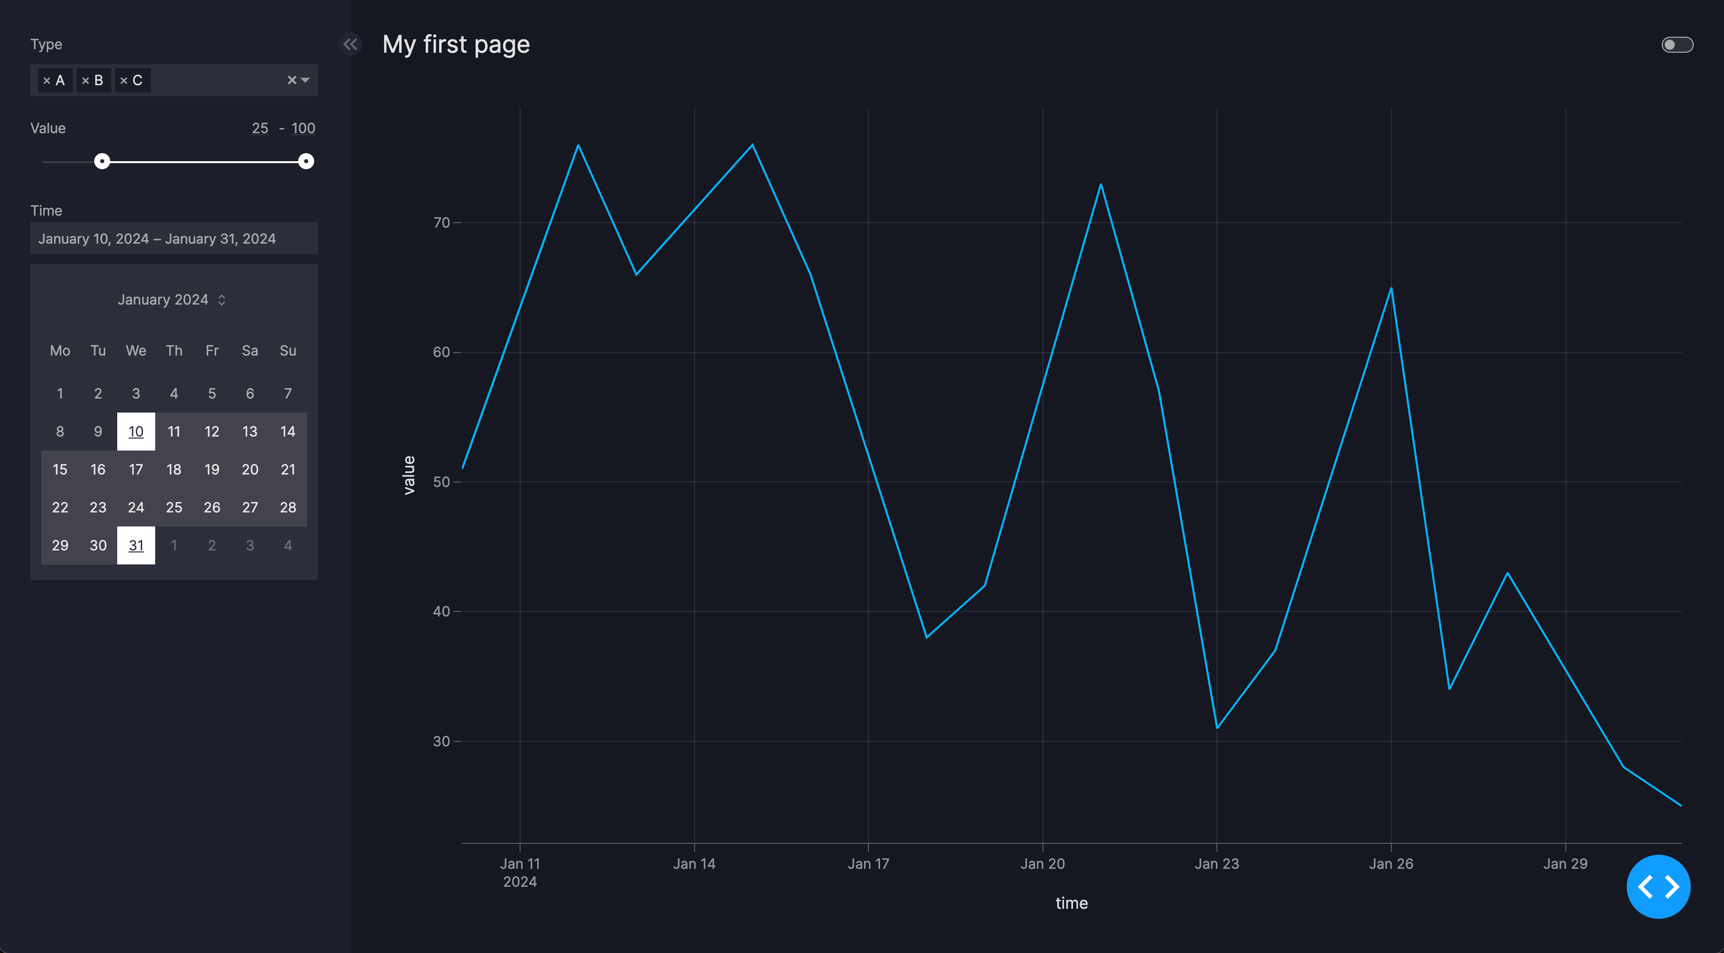
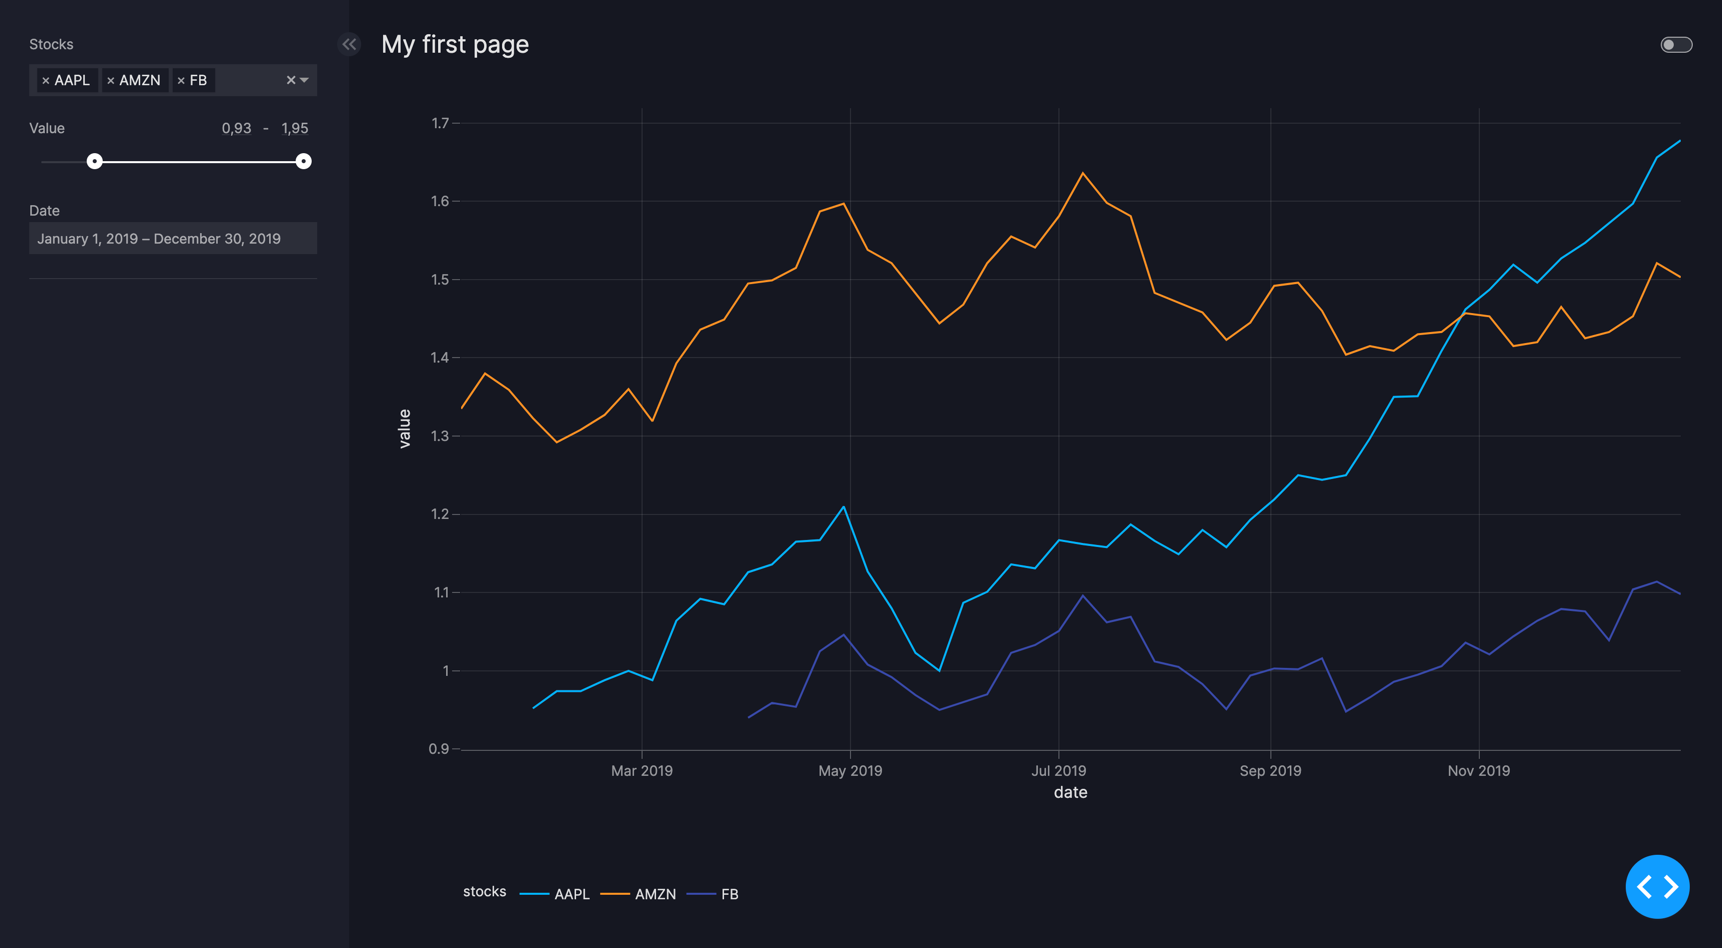
Minor changes

diff --git a/vizro-core/src/vizro/models/_controls/filter.py b/vizro-core/src/vizro/models/_controls/filter.py
@@ -147,8 +147,12 @@ class Filter(VizroBaseModel):
                 min_values.append(data_frame[self.column].min())
                 max_values.append(data_frame[self.column].max())
 
-            if not (is_numeric_dtype(pd.Series(min_values)) and is_numeric_dtype(pd.Series(max_values)) or
-                    is_datetime64_any_dtype(pd.Series(min_values)) and is_datetime64_any_dtype(pd.Series(max_values))):
+            if not (
+                is_numeric_dtype(pd.Series(min_values))
+                and is_numeric_dtype(pd.Series(max_values))
+                or is_datetime64_any_dtype(pd.Series(min_values))
+                and is_datetime64_any_dtype(pd.Series(max_values))
+            ):
                 raise ValueError(
                     f"Inconsistent types detected in the shared data column '{self.column}' for targeted charts "
                     f"{self.targets}. Please ensure that the data column contains the same data type across all "

diff --git a/vizro-core/examples/_dev/yaml_version/app.py b/vizro-core/examples/_dev/yaml_version/app.py
@@ -15,14 +15,15 @@ data_manager["iris"] = px.data.iris
 data_manager["gapminder"] = px.data.gapminder
 data_manager["gapminder_2007"] = px.data.gapminder().query("year == 2007")
 
-date_data_frame = pd.DataFrame(
-    {
-        "type": [random.choice(["A", "B", "C"]) for _ in range(31)],
-        "value": [random.randint(0, 100) for _ in range(31)],
-        "time": [datetime.datetime(2024, 1, 1) + datetime.timedelta(days=i) for i in range(31)],
-    }
+
+df_stocks_long = pd.melt(
+    px.data.stocks(datetimes=True),
+    id_vars="date",
+    value_vars=["GOOG", "AAPL", "AMZN", "FB", "NFLX", "MSFT"],
+    var_name="stocks",
+    value_name="value",
 )
-data_manager["date_data_frame"] = date_data_frame
+data_manager["df_stocks_long"] = df_stocks_long
 
 dashboard = yaml.safe_load(Path("dashboard.yaml").read_text(encoding="utf-8"))
 dashboard = Dashboard(**dashboard)

diff --git a/vizro-core/examples/_dev/app.py b/vizro-core/examples/_dev/app.py
@@ -62,7 +62,29 @@ page = vm.Page(
     ],
 )
 
-dashboard = vm.Dashboard(pages=[page])
+df_stocks_long = pd.melt(
+    px.data.stocks(datetimes=True),
+    id_vars="date",
+    value_vars=["GOOG", "AAPL", "AMZN", "FB", "NFLX", "MSFT"],
+    var_name="stocks",
+    value_name="value",
+)
+
+df_stocks_long["value"] = df_stocks_long["value"].round(3)
+
+page_2 = vm.Page(
+    title="My second page",
+    components=[
+        vm.Graph(figure=px.line(df_stocks_long, x="date", y="value", color="stocks")),
+    ],
+    controls=[
+        vm.Filter(column="stocks"),
+        vm.Filter(column="value"),
+        vm.Filter(column="date"),
+    ],
+)
+
+dashboard = vm.Dashboard(pages=[page, page_2])
 
 if __name__ == "__main__":
     Vizro().build(dashboard).run()

diff --git a/vizro-core/src/vizro/models/types.py b/vizro-core/src/vizro/models/types.py
@@ -3,9 +3,9 @@
 # ruff: noqa: F821
 from __future__ import annotations
 
-from datetime import date
 import functools
 import inspect
+from datetime import date
 from typing import Any, Dict, List, Literal, Protocol, Union, runtime_checkable
 
 try:

diff --git a/vizro-core/tests/unit/vizro/models/_controls/test_filter.py b/vizro-core/tests/unit/vizro/models/_controls/test_filter.py
@@ -1,8 +1,8 @@
+import re
 from datetime import date, datetime
 
 import pandas as pd
 import pytest
-import re
 import vizro.models as vm
 from vizro.managers import model_manager
 from vizro.models._action._actions_chain import ActionsChain

diff --git a/vizro-core/docs/pages/user-guides/selectors.md b/vizro-core/docs/pages/user-guides/selectors.md
@@ -82,28 +82,32 @@ indicating that [pandas.api.types.is_datetime64_any_dtype()](https://pandas.pyda
 !!! example "Default Filter selectors"
     === "app.py"
         ```py
-        import datetime
-        import random
         import pandas as pd
         from vizro import Vizro
         import vizro.plotly.express as px
         import vizro.models as vm
 
-        date_data_frame = pd.DataFrame({
-            "type": [random.choice(["A", "B", "C"]) for _ in range(31)],
-            "value": [random.randint(0, 100) for _ in range(31)],
-            "time": [datetime.datetime(2024, 1, 1) + datetime.timedelta(days=i) for i in range(31)],
-        })
+        df_stocks = px.data.stocks(datetimes=True)
+
+        df_stocks_long = pd.melt(
+            df_stocks,
+            id_vars='date',
+            value_vars=['GOOG', 'AAPL', 'AMZN', 'FB', 'NFLX', 'MSFT'],
+            var_name='stocks',
+            value_name='value'
+        )
+
+        df_stocks_long['value'] = df_stocks_long['value'].round(3)
 
         page = vm.Page(
             title="My first page",
             components=[
-                vm.Graph(figure=px.line(date_data_frame, x="time", y="value")),
+                vm.Graph(figure=px.line(df_stocks_long, x="date", y="value", color="stocks")),
             ],
             controls=[
-                vm.Filter(column="type"),
+                vm.Filter(column="stocks"),
                 vm.Filter(column="value"),
-                vm.Filter(column="time"),
+                vm.Filter(column="date"),
             ],
         )
 
@@ -119,16 +123,17 @@ indicating that [pandas.api.types.is_datetime64_any_dtype()](https://pandas.pyda
           - components:
               - figure:
                   _target_: line
-                  data_frame: date_data_frame
-                  x: time
+                  data_frame: df_stocks_long
+                  x: date
                   y: value
+                  color: stocks
                 type: graph
             controls:
-              - column: type
+              - column: stocks
                 type: filter
               - column: value
                 type: filter
-              - column: time
+              - column: date
                 type: filter
             title: My first page
         ```
